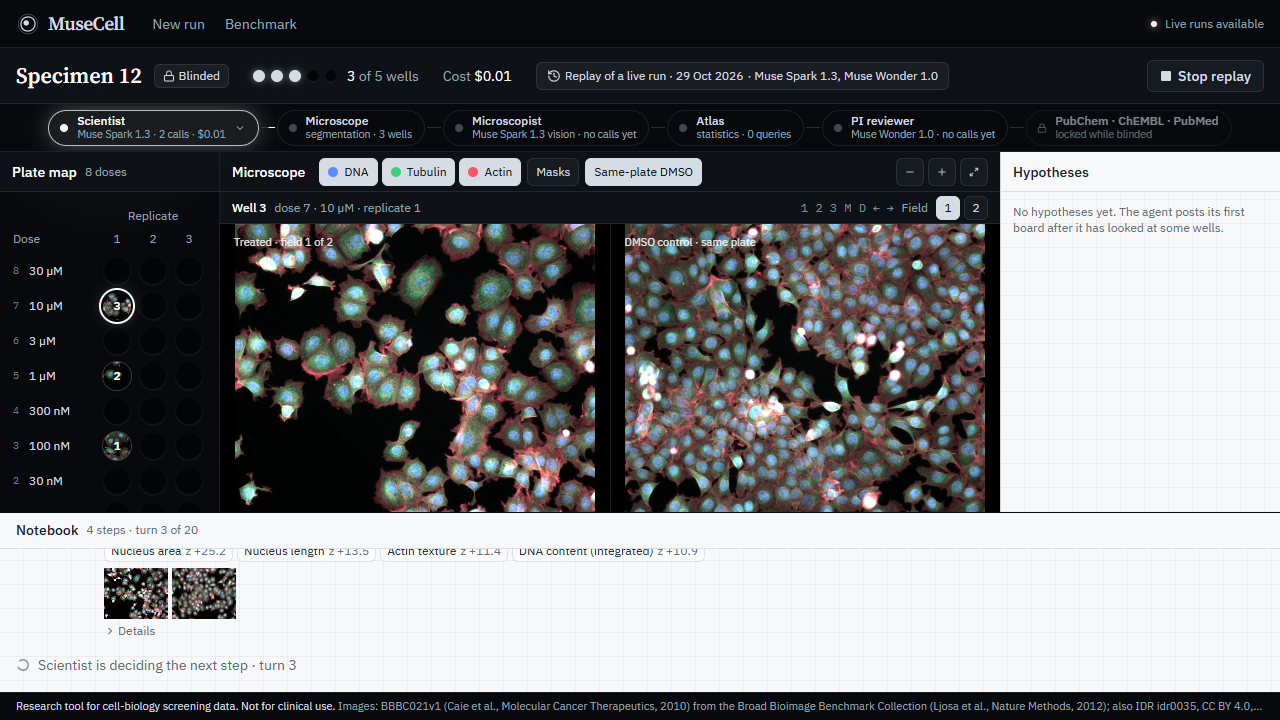
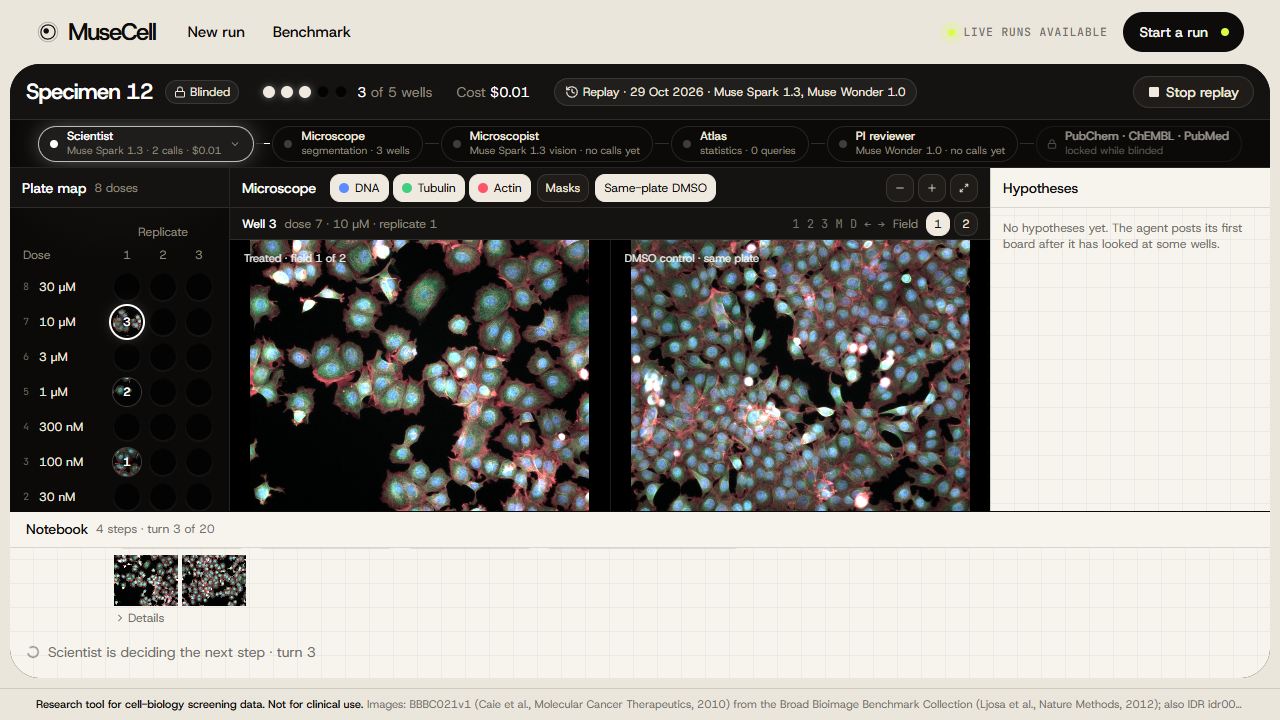
docs: re-record screenshots and hero GIF in design v2; hide empty runs from the replay list

diff --git a/frontend/src/screens/ChooseSpecimen.tsx b/frontend/src/screens/ChooseSpecimen.tsx
@@ -570,7 +570,7 @@ function RecordedRuns() {
       )}
       {!!recorded.data?.length && (
         <ul className="flex flex-col divide-y divide-white/[0.07]">
-          {recorded.data.map((r) => (
+          {recorded.data.filter((r) => (r.budget_used ?? 0) > 0).map((r) => ( // nothing to watch before the first well
             <li key={r.run_id} className="flex items-center gap-5 py-2.5 text-sm">
               <span className="font-serif text-[16px] font-semibold text-white w-[110px] shrink-0 whitespace-nowrap">{r.specimen_label ?? "Specimen"}</span>
               <span className="text-mist whitespace-nowrap">Recorded {dateTime(r.recorded_at)}</span>

diff --git a/scripts/screenshots.py b/scripts/screenshots.py
@@ -85,6 +85,7 @@ def main() -> int:
         page.get_by_role("radio").first.wait_for()
         shot(page, "01_choose_specimen")
         page.get_by_role("button", name="Watch a recorded run").click()
+        page.wait_for_timeout(2200)  # design v2: the button scrolls to the section, which then fades in
         page.get_by_role("button", name="Replay").first.wait_for()
         shot(page, "02_choose_recorded")
 

diff --git a/docs/DECISIONS.md b/docs/DECISIONS.md
@@ -366,3 +366,9 @@ Daily cap raised per process (`DAILY_COST_CAP_USD=70`) because Baseten credits c
   - Above NSC on 4 random wells (81.3 % ± 4.9, ≈ 1.7 sd), one compound below NSC on all wells (92.1 %).
 - Some text-only edits were made after the v5 eval had started: the unblinded brief now names both calls, and the dossier wording changed. They do not affect calls or scoring.
 - **Decision: freeze the agent at v5.** With these features the ceiling is NSC on all wells (35/38). Another version would gain at most 1–2 compounds, which is within noise, and would spend the held-out half again: the test half has been read for v4 and v5.
+
+## Design polish (2026-10-30, after v5)
+- Hero: a real BBBC021 field (shipped thumbnail), blurred and drifting on a 60 s loop behind the grain (off under reduced motion); the headline number plaque reads the main agent row of eval/results.json (accuracy, held-out test, random-well baseline in the same feature space), never typed in.
+- Run view: the unblinding panel takes 72 % of the height; the compound resolves from blur as a 52–112 px display title; the verdict stamp is larger and lands with a slight rotation.
+- Phone width (390 px) checked: hero, bench panel, timeline and headline tiles stack; the eyepiece scales to 78vw.
+- Recorded-runs list hides runs that ended before acquiring a well (nothing to replay). docs/screens/ and docs/hero.gif re-recorded (hero GIF 720 px, 6 fps, 6.0 MB); 0 console errors.
